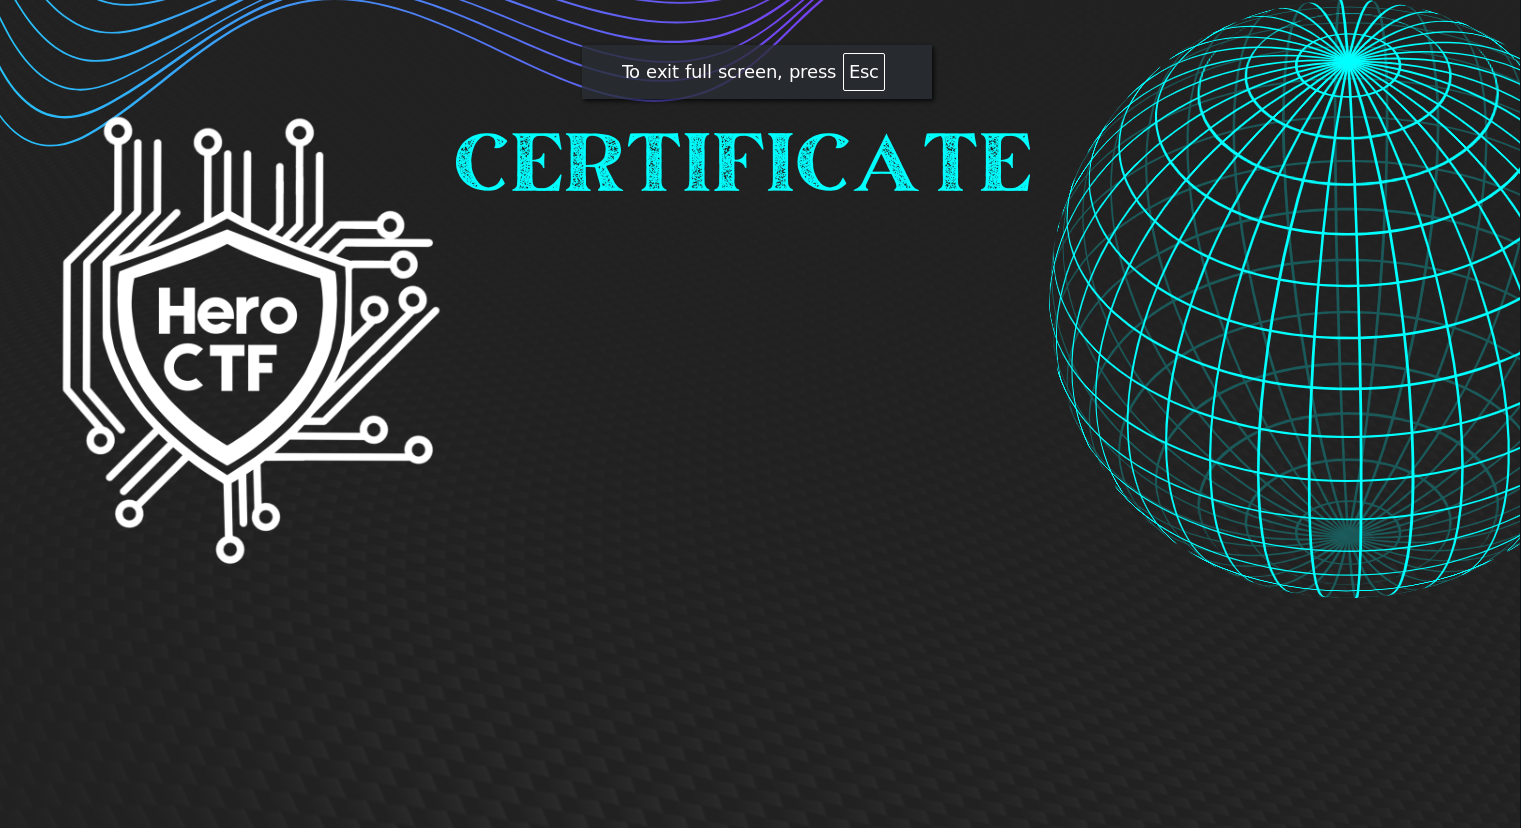
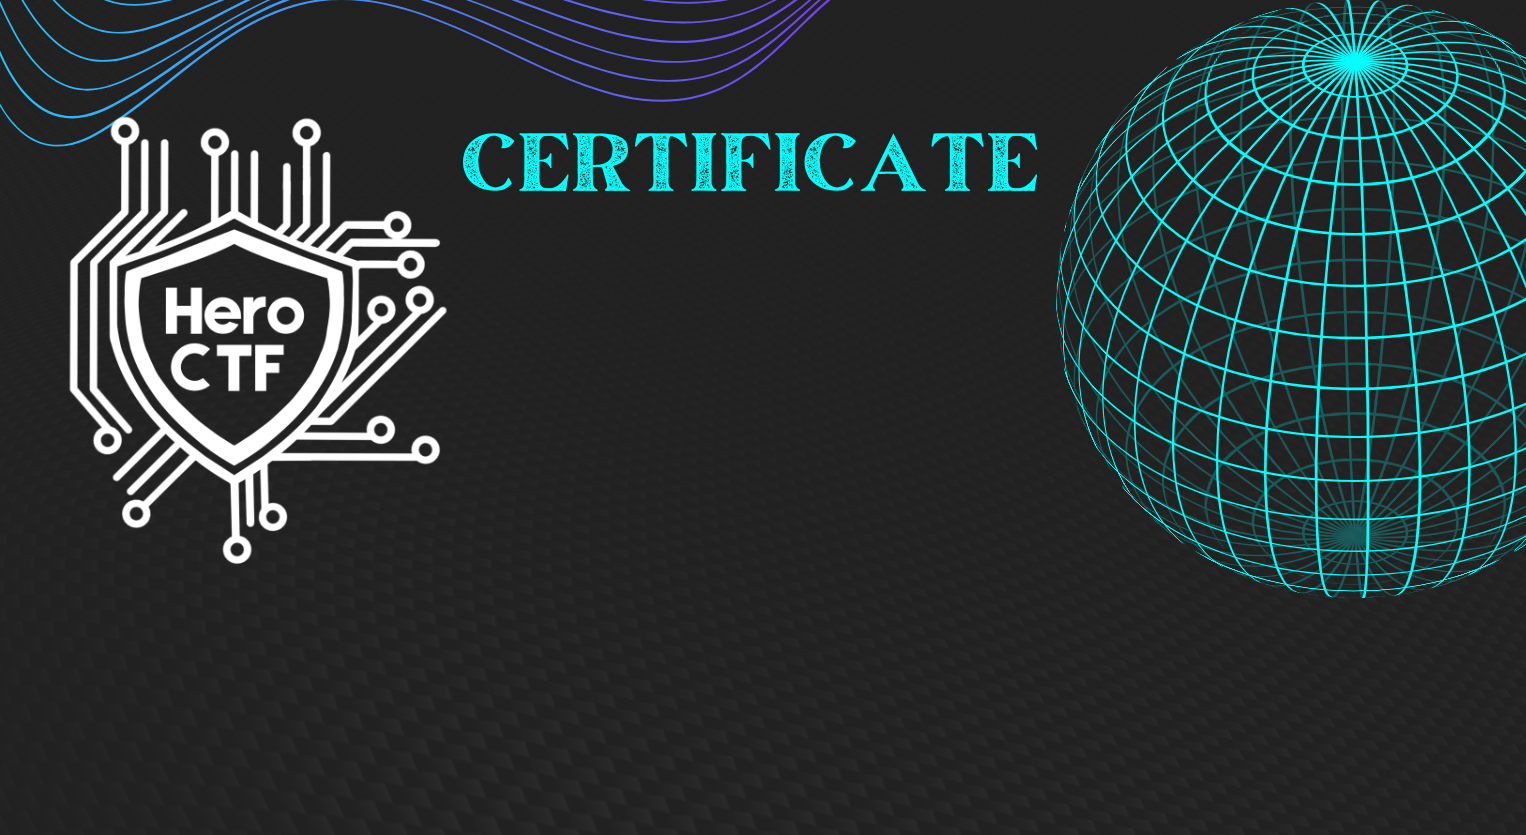
remove fullscreen

Changed region(s): [[0.2781, 0.0, 1.0, 0.7246], [0.0, 0.0, 0.309, 0.6944], [0.2472, 0.0, 0.5871, 0.1208]]

diff --git a/app/app.py b/app/app.py
@@ -50,36 +50,43 @@ app = Flask(__name__, template_folder='.', static_url_path='/static')
 def index():
     if request.method == 'POST':
         token = request.form.get('token')
-        if token:
-            response = requests.get(f"https://ctf.heroctf.fr/api/v1/users/me", headers={"Authorization": f"Token {token}", "Content-Type": "application/json"})
-            
-            if response.status_code == 200:
-                username = response.json()["data"]["name"]
-                response = requests.get(f"https://ctf.heroctf.fr/api/v1/teams/me", headers={"Authorization": f"Token {token}", "Content-Type": "application/json"})
-                
-                if response.status_code == 200:
-                    team_name = response.json()["data"]["name"]
-                    score = response.json()["data"]["place"]
-                    response = requests.get(f"https://ctf.heroctf.fr/api/v1/teams", headers={"Authorization": f"Token {token}", "Content-Type": "application/json"})
-                    
-                    if response.status_code == 200:
-                        max_teams = response.json()["meta"]["pagination"]["total"]
-                        
-                        @after_this_request
-                        def remove_file(response):
-                            try:
-                                os.remove(filename)
-                            except:
-                                pass
-                            return response
-                        
-                        filename = f"certificates/{username}-hero-certif.pdf"
-                        generate_certificate("resources/template.png", username, team_name, score, max_teams, filename)
-                        return send_file(filename, as_attachment=True)
+        if not token:
+            return render_template('index.html', error="Please provide a CTFd token.")
         
-        return render_template('index.html', error="Could not authenticate to the CTFd instance.")
+        response = requests.get(f"https://ctf.heroctf.fr/api/v1/users/me", headers={"Authorization": f"Token {token}", "Content-Type": "application/json"})
+        
+        if response.status_code != 200:
+            return render_template('index.html', error="Could not authenticate to the CTFd instance.")
+        
+        username = response.json()["data"]["name"]
+        response = requests.get(f"https://ctf.heroctf.fr/api/v1/teams/me", headers={"Authorization": f"Token {token}", "Content-Type": "application/json"})
+        
+        if response.status_code != 200:
+            return render_template('index.html', error="Could not authenticate to the CTFd instance.")
+        
+        team_name = response.json()["data"]["name"]
+        score = response.json()["data"]["place"]
+        response = requests.get(f"https://ctf.heroctf.fr/api/v1/teams", headers={"Authorization": f"Token {token}", "Content-Type": "application/json"})
+        
+        if response.status_code != 200:
+            return render_template('index.html', error="Could not authenticate to the CTFd instance.")
+        
+        max_teams = response.json()["meta"]["pagination"]["total"]
+        
+        @after_this_request
+        def remove_file(response):
+            try:
+                os.remove(filename)
+            except:
+                pass
+            return response
+        
+        filename = f"certificates/{username}-hero-certif.pdf"
+        generate_certificate("resources/template.png", username, team_name, score, max_teams, filename)
+        return send_file(filename, as_attachment=True)
+
     else:
         return render_template('index.html')
 
 if __name__ == "__main__":
-    app.run(host="0.0.0.0", port=int(os.environ.get('LISTEN_PORT', '80')), debug=True)
+    app.run(host="0.0.0.0", port=int(os.environ.get('LISTEN_PORT', '80')))
